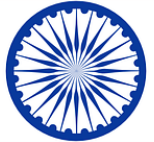
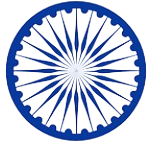
Created Dicee Game & Added transformation in Ashoka Chakra

diff --git a/Indian_Flag/flag.html b/Indian_Flag/flag.html
@@ -74,16 +74,30 @@
             #eighth{
                 width: 500px;
                 height: 125px;
-                background-color: rgb(23, 23, 23);
+                background-color: rgb(147, 4, 4);
                 float: left;
             }
 
             #ninth{
                 width: 1000px;
                 height: 125px;
-                background-color: rgb(24, 4, 4);
+                background-color: rgb(89, 4, 4);
                 float: left;
             }
+
+            @keyframes rotateChakra {
+      from {
+        transform: rotate(0deg);
+      }
+      to {
+        transform: rotate(360deg);
+      }
+    }
+
+    .rotating-chakra {
+      
+      animation: rotateChakra 5s linear infinite;
+    }
         </style>
     </head>
     <body>
@@ -91,7 +105,7 @@
             
             <div id="first"></div>
             <div id="second"></div>
-            <img src="images/image.png" width=80px; style="position: relative; top: 163px; left: 210px;">
+            <img src="images/image.png" class="rotating-chakra" width=80px; style="position: relative; top: 163px; left: 210px;">
             <div id="third">
                     <div id="flag1"></div>
                     <div id="flag2"></div>

diff --git a/Dicee_Game/dicee.html b/Dicee_Game/dicee.html
@@ -1,0 +1,35 @@
+<!DOCTYPE html>
+<html lang="en" dir="ltr">
+  <head>
+    
+    <meta charset="utf-8" />
+    <title>Dicee</title>
+    <link rel="stylesheet" href="styles.css" />
+    <link
+      href="https://fonts.googleapis.com/css?family=Indie+Flower|Lobster"
+      rel="stylesheet"
+    />
+    <link rel="preconnect" href="https://fonts.googleapis.com">
+<link rel="preconnect" href="https://fonts.gstatic.com" crossorigin>
+<link href="https://fonts.googleapis.com/css2?family=Press+Start+2P&display=swap" rel="stylesheet">
+
+  </head>
+    <body onload="getRandom()">
+    <div class="container">
+      <h1>Refresh Me</h1>
+
+      <div class="dice">
+        <p>Player 1</p>
+        <img class="img1" src="images/dice6.png" />
+      </div>
+
+      <div class="dice">
+        <p>Player 2</p>
+        <img class="img2" src="images/dice6.png" />
+      </div>
+    </div>
+
+    <footer>www 🎲 DiceeGame 🎲 com</footer>
+        <script src="index.js"></script>
+  </body>
+</html>

diff --git a/Dicee_Game/index.js b/Dicee_Game/index.js
@@ -1,0 +1,14 @@
+
+function getRandom() {
+        var randomNumber1 = Math.floor(Math.random() * 6) + 1;
+        var randomNumber2 = Math.floor(Math.random() * 6) + 1;
+        
+        document.querySelector(".img1").setAttribute("src", "images/dice" + randomNumber1 + ".png");
+        document.querySelector(".img2").setAttribute("src", "images/dice" + randomNumber2 + ".png");
+
+if (randomNumber1 == randomNumber2)
+   document.querySelector("h1").innerHTML="Match Draw";
+else if (randomNumber1 > randomNumber2)
+        document.querySelector("h1").innerHTML="Player 1 Won";
+else document.querySelector("h1").innerHTML="Player 2 Won";
+}

diff --git a/Dicee_Game/styles.css b/Dicee_Game/styles.css
@@ -1,0 +1,42 @@
+.container {
+  width: 70%;
+  margin: auto;
+  text-align: center;
+}
+
+.dice {
+  text-align: center;
+  display: inline-block;
+
+}
+
+body {
+  background-color: #393E46;
+}
+
+h1 {
+  margin: 30px;
+  padding-top: 30px;
+  font-family: 'Press Start 2P', cursive;
+  text-shadow: 5px 0 #232931;
+  font-size: 70px;
+  color: #fcfcfc;
+}
+
+p {
+  font-size: 30px;
+  color: yellow;
+  font-family: 'Press Start 2P', cursive;
+}
+
+img {
+  width: 80%;
+}
+
+footer {
+  margin-top: 5%;
+  color: #EEEEEE;
+  text-align: center;
+  font-family: 'Press Start 2P', cursive;
+
+}
